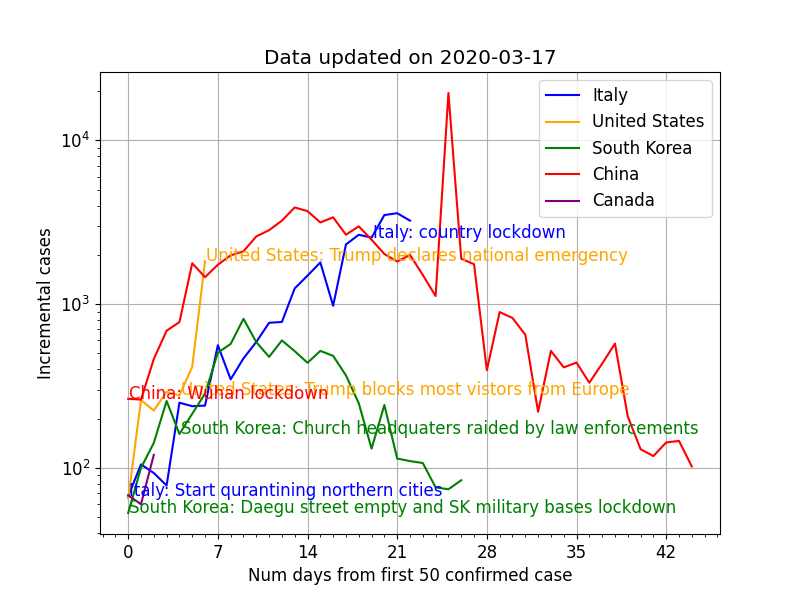
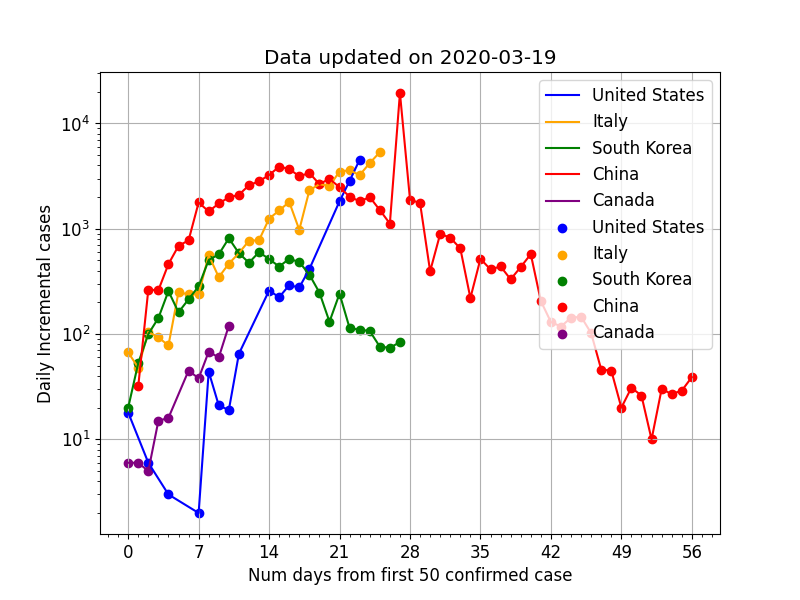
manually populated latest data for US and Italy

diff --git a/analysis.py b/analysis.py
@@ -78,6 +78,7 @@ class PlotData(object):
     def __init__(self,
                  existing_x,
                  existing_y,
+                 new_y,
                  existing_date_point,
                  curve_x,
                  curve_y,
@@ -85,6 +86,7 @@ class PlotData(object):
                  ):
         self.existing_x = existing_x
         self.existing_y = existing_y
+        self.new_y = new_y
         self.existing_date_point = existing_date_point
         self.curve_x = curve_x
         self.curve_y = curve_y
@@ -109,16 +111,19 @@ class DataModel(object):
 
         x = []
         y = []
+        new_y = []
         date_point = []
         i = -1
 
-        for (x_, y_, date_point_) in zip(self.target_data.x, self.target_data.y, self.target_data.date_point):
+        for (x_, y_, new_y_, date_point_) in zip(self.target_data.x, self.target_data.total_cases,
+                                                 self.target_data.new_cases, self.target_data.date_point):
             if y_threshold:
                 if y_ < y_threshold:
                     continue
             i += 1
             x.append(i)
             y.append(y_)
+            new_y.append(new_y_)
             date_point.append(date_point_)
 
         if self.statistic_model.fitted:
@@ -139,29 +144,49 @@ class DataModel(object):
 
         return PlotData(existing_x=x,
                         existing_y=y,
+                        new_y=new_y,
                         existing_date_point=date_point,
                         curve_x=x_1,
                         curve_y=y_1,
                         events=plot_event_data)
 
-    def plot_historical(self, y_threshold=None, label_vertical=True, y_label="Accumulative cases"):
+    def plot_data(self, y_threshold=None, label_vertical=True, plot_accumulative=True):
         # plot fitted curve
         plot_data = self.get_plot_data(y_threshold)
-        self.setup_axis(str(y_threshold), y_label)
+        if plot_accumulative:
+            self.setup_axis(str(y_threshold), "Accumulative cases")
+        else:
+            self.setup_axis(str(y_threshold), "Daily Incremental cases")
+
         color = get_label_color(self.target_data.label)
 
-        plt.plot(plot_data.existing_x, plot_data.existing_y, label=self.target_data.label, color=color)
+        if plot_accumulative:
+            plt.plot(plot_data.existing_x, plot_data.existing_y,
+                     label=self.target_data.label, color=color)
+            for event in plot_data.events:
+                rotation = 90 if label_vertical else 0
+                plt.text(event[0] + 0.1, plot_data.existing_y[min(len(plot_data.existing_y) - 1, event[0])],
+                         event[1], rotation=rotation,
+                         color=color)
+                # plt.axvline(event[0], dashes=(5, 2, 1, 2), color=color)
+        else:
+
+            new_x = []
+            new_y = []
+            for i, y in enumerate(plot_data.new_y):
+                if y != 0:
+                    new_x.append(plot_data.existing_x[i])
+                    new_y.append(y)
+            plt.plot(new_x, new_y,
+                        label=self.target_data.label, color=color)
+            plt.scatter(new_x, new_y,
+                        label=self.target_data.label, color=color)
 
         ax = plt.axes()
         ax.xaxis.set_major_locator(ticker.MultipleLocator(7))
         ax.xaxis.set_minor_locator(ticker.MultipleLocator(1))
 
-        for event in plot_data.events:
-            rotation = 90 if label_vertical else 0
-            plt.text(event[0] + 0.1, plot_data.existing_y[min(len(plot_data.existing_y) - 1, event[0])],
-                     event[1], rotation=rotation,
-                     color=color)
-            # plt.axvline(event[0], dashes=(5, 2, 1, 2), color=color)
+
 
     def plot_statistical_model(self):
         # plot fitted curve
@@ -191,7 +216,8 @@ class DataModel(object):
         # plot existing
         plt.scatter(x, y)
         plt.annotate(f"{date_point[-1]}: {int(y[-1])}", xy=(x[-1], y[-1]),
-                     xytext=(x[-1] / 2, y[-1]), arrowprops=dict(facecolor='black', shrink=0.05, width=1, headwidth=8))
+                     xytext=(x[-1] / 2, y[-1]),
+                     arrowprops=dict(facecolor='black', shrink=0.05, width=1, headwidth=8))
 
         if x_1 is not None and y_1 is not None:
             # plot fitted curve

diff --git a/plots.py b/plots.py
@@ -5,7 +5,7 @@ from matplotlib import pyplot as plt
 import mpld3
 
 from analysis import DataModel, StatisticModel
-from data import FileData, CountryTotalData, CountryIncrementalData
+from data import FileData, CountryData
 from statistic_models import si_model as si_model, si_model_expression as si_expression
 from analysis import datetime64_to_datetime
 
@@ -14,7 +14,7 @@ matplotlib.rc('font', **font)
 
 
 def plot_model_lists(models: List[DataModel], savefig=None, y_threshold=None, label_vertical=True,
-                     y_label="Accumulative cases"):
+                     plot_accumulative=True):
     """
     Plot alist of Data model to graph
     :param models:
@@ -23,7 +23,7 @@ def plot_model_lists(models: List[DataModel], savefig=None, y_threshold=None, la
     plt.figure(figsize=(8, 6))
     plt.grid(b=True)
     for data_model in models:
-        data_model.plot_historical(y_threshold, label_vertical, y_label)
+        data_model.plot_data(y_threshold, label_vertical, plot_accumulative)
     plt.legend()
     plt.yscale('log')
     last_date = datetime64_to_datetime(models[0].data_last_date).strftime("%Y-%m-%d")
@@ -31,7 +31,7 @@ def plot_model_lists(models: List[DataModel], savefig=None, y_threshold=None, la
     if savefig is not None:
         plt.savefig(savefig)
 
-        mpld3.save_html(plt.gcf(), savefig.split(".")[0] + ".html")
+        # mpld3.save_html(plt.gcf(), savefig.split(".")[0] + ".html")
 
     plt.show()
 
@@ -56,8 +56,8 @@ def country_total_comparison(country_names):
 def country_incremental_comparison(country_names):
     country_models = []
     for country in country_names:
-        country_models.append(get_country_incremental_model(country))
-    plot_model_lists(country_models, "plots/country_incrementals.png", 50, False, "Incremental cases")
+        country_models.append(get_country_total_model(country))
+    plot_model_lists(country_models, "plots/country_incrementals.png", 50, False, False)
 
 
 def file_comparison(city_names):
@@ -81,14 +81,10 @@ def get_file_model(city_name):
 
 
 def get_country_total_model(country_name):
-    country_total_data = CountryTotalData(country_name)
+    country_total_data = CountryData(country_name)
     analysis_model = StatisticModel(si_model, si_expression)
     country_total_model = DataModel(country_total_data, analysis_model)
     return country_total_model
 
 
-def get_country_incremental_model(country_name):
-    country_incremental_data = CountryIncrementalData(country_name)
-    analysis_model = StatisticModel(si_model, si_expression)
-    country_incremental_model = DataModel(country_incremental_data, analysis_model)
-    return country_incremental_model
+

diff --git a/data.py b/data.py
@@ -50,38 +50,27 @@ class EventData(WhoDataSource):
 
 class AbstractData(object):
     x = None
-    y = None
+    total_cases = None
+    new_cases = None
     label = None
     date_point = None
     events = None
 
 
-class CountryTotalData(AbstractData):
+class CountryData(AbstractData):
 
     def __init__(self, country_name):
         who_data_source = WhoDataSource()
         event_data_source = EventData()
         country_data = who_data_source.get_location_data(country_name)
 
-        self.y = country_data["total_cases"].values
+        self.total_cases = country_data["total_cases"].values
+        self.new_cases = country_data["new_cases"].values
         self.date_point = country_data["date"].values
-        self.x = np.arange(0, len(self.y), 1)
+        self.x = np.arange(0, len(self.total_cases), 1)
         self.label = country_name
         self.events = event_data_source.get_location_data(country_name)
 
-
-class CountryIncrementalData(AbstractData):
-
-    def __init__(self, country_name):
-        who_data_source = WhoDataSource()
-        event_data_source = EventData()
-        country_data = who_data_source.get_location_data(country_name)
-
-        self.y = country_data["new_cases"].values
-        self.date_point = country_data["date"].values
-        self.x = np.arange(0, len(self.y), 1)
-        self.label = country_name
-        self.events = event_data_source.get_location_data(country_name)
 
 
 class FileData(AbstractData):

diff --git a/main.py b/main.py
@@ -2,8 +2,8 @@ from plots import country_total_comparison, country_incremental_comparison
 
 if __name__ == '__main__':
     country_incremental_comparison([
-        "Italy",
         "United States",
+        "Italy",
         "South Korea",
         "China",
         "Canada"])
